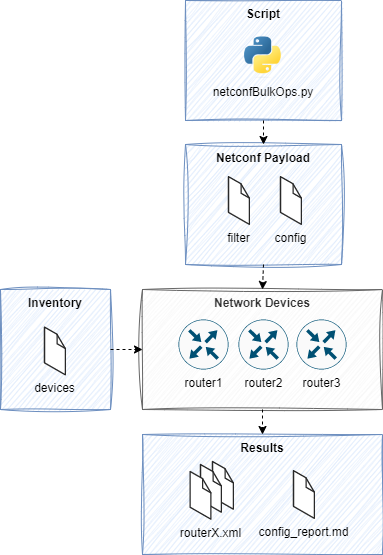
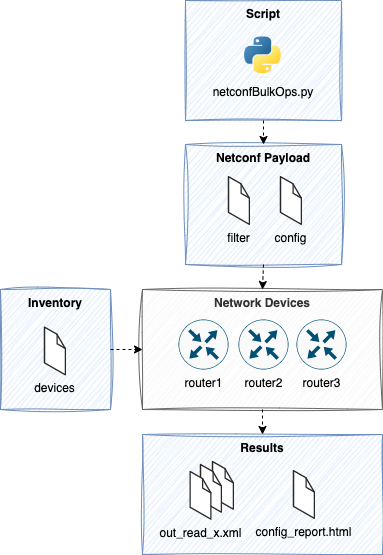
drawing updated, published badge added

diff --git a/README.md b/README.md
@@ -1,3 +1,5 @@
+[![published](https://static.production.devnetcloud.com/codeexchange/assets/images/devnet-published.svg)](https://developer.cisco.com/codeexchange/github/repo/spie-ics-ag/netconfBulkOps)
+
 # netconfBulkOps
 
 netconfBulkOps is a Python script for NETCONF bulk operations (get and edit-config) implemented as a minimum viable product (MVP).
